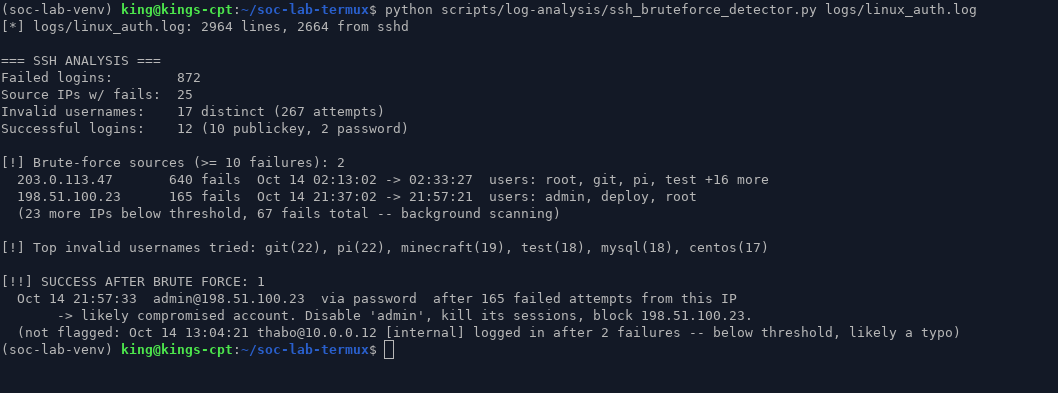
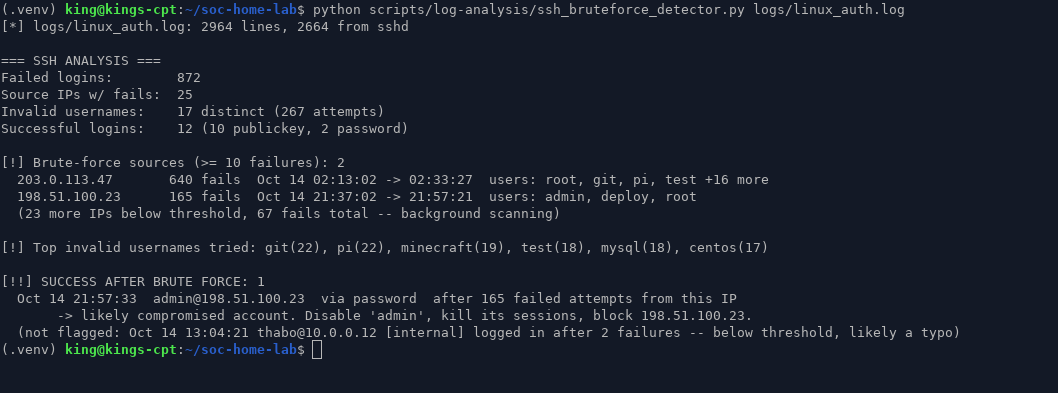
Convert from Termux to a Linux desktop lab; rename to soc-home-lab
- install.sh: apt packages + a project .venv with scapy; no Termux pkg path
- README: Linux desktop setup, running the detectors on your own
  /var/log/auth.log, journalctl output and tcpdump captures
- ssh detector also parses OpenSSH 9.8+ 'sshd-session[pid]' lines and ISO
  timestamps (current Ubuntu/Debian rsyslog format)
- pcap generator: fixed MACs so scapy stops printing ARP warnings
- removed Termux paths from the ATT&CK layer metadata and detection docs
- screenshots re-captured from ~/soc-home-lab with the repo .venv

Changed region(s): [[0.0, 0.0, 0.9045, 0.0611], [0.0, 0.855, 0.3743, 0.916]]

diff --git a/scripts/tools/generate_sample_pcap.py b/scripts/tools/generate_sample_pcap.py
@@ -19,6 +19,8 @@ from scapy.all import Ether, IP, TCP, UDP, DNS, DNSQR, DNSRR, wrpcap
 REPO_ROOT = Path(__file__).resolve().parents[2]
 T0 = 1792015200.0  # 2026-10-14 08:00 SAST
 GW = "10.0.0.1"
+# Fixed MACs so scapy doesn't try (and fail) to ARP-resolve addresses while building frames.
+ETH = Ether(src="02:00:00:00:00:01", dst="02:00:00:00:00:02")
 SITES = {"www.google.com": "192.0.2.10", "github.com": "192.0.2.20",
          "outlook.office365.com": "192.0.2.30", "www.news24.com": "192.0.2.40",
          "fnb.co.za": "192.0.2.50"}
@@ -37,17 +39,17 @@ def build(rng):
         t = T0 + rng.uniform(0, 1800)
         h, (name, ip) = rng.choice(hosts), rng.choice(list(SITES.items()))
         sport, qid = rng.randint(49152, 65535), rng.randint(0, 65535)
-        add(t, Ether() / IP(src=h, dst=GW) / UDP(sport=sport, dport=53) /
+        add(t, ETH / IP(src=h, dst=GW) / UDP(sport=sport, dport=53) /
             DNS(id=qid, rd=1, qd=DNSQR(qname=name)))
-        add(t + 0.02, Ether() / IP(src=GW, dst=h) / UDP(sport=53, dport=sport) /
+        add(t + 0.02, ETH / IP(src=GW, dst=h) / UDP(sport=53, dport=sport) /
             DNS(id=qid, qr=1, qd=DNSQR(qname=name), an=DNSRR(rrname=name, rdata=ip)))
         cport, t = rng.randint(49152, 65535), t + 0.05
-        add(t, Ether() / IP(src=h, dst=ip) / TCP(sport=cport, dport=443, flags="S"))
-        add(t + 0.03, Ether() / IP(src=ip, dst=h) / TCP(sport=443, dport=cport, flags="SA"))
-        add(t + 0.031, Ether() / IP(src=h, dst=ip) / TCP(sport=cport, dport=443, flags="A"))
+        add(t, ETH / IP(src=h, dst=ip) / TCP(sport=cport, dport=443, flags="S"))
+        add(t + 0.03, ETH / IP(src=ip, dst=h) / TCP(sport=443, dport=cport, flags="SA"))
+        add(t + 0.031, ETH / IP(src=h, dst=ip) / TCP(sport=cport, dport=443, flags="A"))
         for k in range(rng.randint(4, 14)):
             src, dst, sp, dp = (h, ip, cport, 443) if k % 3 == 0 else (ip, h, 443, cport)
-            add(t + 0.05 + k * 0.01, Ether() / IP(src=src, dst=dst) /
+            add(t + 0.05 + k * 0.01, ETH / IP(src=src, dst=dst) /
                 TCP(sport=sp, dport=dp, flags="PA") / bytes(rng.randint(60, 1400)))
 
     # SYN scan from an internal box against the file server
@@ -57,18 +59,18 @@ def build(rng):
     rng.shuffle(ports)
     for port in ports:
         sp = rng.randint(40000, 65000)
-        add(t, Ether() / IP(src=scanner, dst=target) / TCP(sport=sp, dport=port, flags="S"))
+        add(t, ETH / IP(src=scanner, dst=target) / TCP(sport=sp, dport=port, flags="S"))
         flags = "SA" if port in open_ports else "RA"
-        add(t + 0.0004, Ether() / IP(src=target, dst=scanner) / TCP(sport=port, dport=sp, flags=flags))
+        add(t + 0.0004, ETH / IP(src=target, dst=scanner) / TCP(sport=port, dport=sp, flags=flags))
         t += rng.uniform(0.001, 0.004)
 
     # C2 beacon: 10.0.0.34 -> 203.0.113.200:8443 every ~60s
     t = T0 + 37
     while t < T0 + 1800:
         sp = rng.randint(49152, 65535)
-        add(t, Ether() / IP(src="10.0.0.34", dst="203.0.113.200") / TCP(sport=sp, dport=8443, flags="S"))
-        add(t + 0.18, Ether() / IP(src="203.0.113.200", dst="10.0.0.34") / TCP(sport=8443, dport=sp, flags="SA"))
-        add(t + 0.2, Ether() / IP(src="10.0.0.34", dst="203.0.113.200") /
+        add(t, ETH / IP(src="10.0.0.34", dst="203.0.113.200") / TCP(sport=sp, dport=8443, flags="S"))
+        add(t + 0.18, ETH / IP(src="203.0.113.200", dst="10.0.0.34") / TCP(sport=8443, dport=sp, flags="SA"))
+        add(t + 0.2, ETH / IP(src="10.0.0.34", dst="203.0.113.200") /
             TCP(sport=sp, dport=8443, flags="PA") / bytes(rng.randint(180, 260)))
         t += 60 + rng.uniform(-2, 2)
 
@@ -78,7 +80,7 @@ def build(rng):
     for i in range(0, len(secret), 30):
         label = base64.b32encode(secret[i:i + 30]).decode().rstrip("=").lower()
         name = f"{label}.x.cdn-update.example"
-        add(t, Ether() / IP(src="10.0.0.57", dst=GW) / UDP(sport=rng.randint(49152, 65535), dport=53) /
+        add(t, ETH / IP(src="10.0.0.57", dst=GW) / UDP(sport=rng.randint(49152, 65535), dport=53) /
             DNS(id=rng.randint(0, 65535), rd=1, qd=DNSQR(qname=name, qtype="TXT")))
         t += rng.uniform(0.5, 2.0)
 

diff --git a/scripts/log-analysis/ssh_bruteforce_detector.py b/scripts/log-analysis/ssh_bruteforce_detector.py
@@ -19,11 +19,19 @@ import re
 import sys
 from collections import Counter, defaultdict
 
-# "Oct 14 21:37:02 web01 sshd[4242]: ..."
-SYSLOG = re.compile(r'^(?P<ts>\w{3}\s+\d{1,2} \d{2}:\d{2}:\d{2}) (?P<host>\S+) sshd\[\d+\]: (?P<msg>.*)$')
+# "Oct 14 21:37:02 web01 sshd[4242]: ..."  (also sshd-session[...] on OpenSSH 9.8+,
+# and ISO timestamps from rsyslog's high-precision format / journalctl -o short-iso)
+SYSLOG = re.compile(r'^(?P<ts>\w{3}\s+\d{1,2} \d{2}:\d{2}:\d{2}|\d{4}-\d{2}-\d{2}T\S+) (?P<host>\S+) '
+                    r'sshd(?:-session)?\[\d+\]: (?P<msg>.*)$')
 FAILED = re.compile(r'Failed (?:password|publickey) for (?P<invalid>invalid user )?(?P<user>\S+) '
                     r'from (?P<ip>\S+) port \d+')
 ACCEPTED = re.compile(r'Accepted (?P<method>\S+) for (?P<user>\S+) from (?P<ip>\S+) port \d+')
+
+
+def clock(ts):
+    """Time-of-day part of a syslog ('Oct 14 21:37:02') or ISO timestamp."""
+    m = re.search(r"\d{2}:\d{2}:\d{2}", ts)
+    return m.group(0) if m else ts
 
 
 def is_internal(ip):
@@ -84,7 +92,7 @@ def analyze(logfile, threshold):
         top = ", ".join(u for u, _ in users_by_ip[ip].most_common(4))
         more = len(users_by_ip[ip]) - 4
         top += f" +{more} more" if more > 0 else ""
-        print(f"  {ip:16s} {n:5d} fails  {first_seen[ip]} -> {last_seen[ip][7:]}  users: {top}")
+        print(f"  {ip:16s} {n:5d} fails  {first_seen[ip]} -> {clock(last_seen[ip])}  users: {top}")
 
     below = [(ip, n) for ip, n in fails.items() if n < threshold]
     if below:

diff --git a/detection/scripts/coverage_map.py b/detection/scripts/coverage_map.py
@@ -121,8 +121,8 @@ def generate_layer(rules_dir: Path) -> Dict:
             {"label": "High coverage (3+ rules)", "color": "#ef5350"},
         ],
         "metadata": [
-            {"name": "rules_directory", "value": str(rules_dir)},
-            {"name": "generator", "value": "soc-lab/detection/scripts/coverage_map.py"},
+            {"name": "rules_directory", "value": str(rules_dir.relative_to(ROOT.parent))},
+            {"name": "generator", "value": "detection/scripts/coverage_map.py"},
         ],
         "showTacticRowBackground": True,
         "tacticRowBackground": "#fafafa",

diff --git a/detection/scripts/test_rules.py b/detection/scripts/test_rules.py
@@ -2,7 +2,7 @@
 """
 Sigma Rule Test Harness
 Validates Sigma rules against Atomic Red Team test commands using pattern matching.
-Note: Full sigma compilation requires a working sigma CLI (pyyaml 6+ compatibility issue on Termux).
+Note: this harness does pattern matching only; it does not compile rules with sigma-cli.
 In production, use 'sigmac -t <backend> rule.yml' to compile for your SIEM.
 """
 import os

diff --git a/README.md b/README.md
@@ -1,13 +1,13 @@
-[![SOC Lab Termux](https://img.shields.io/badge/SOC%20Lab-Termux%20%7C%20Android-blue?logo=Android)](https://github.com)
+[![Linux desktop](https://img.shields.io/badge/platform-Linux%20desktop-blue?logo=linux)](#setup)
 [![Python 3.8+](https://img.shields.io/badge/python-3.8%2B-blue)](https://www.python.org/downloads/)
 [![License: MIT](https://img.shields.io/badge/License-MIT-yellow.svg)](LICENSE)
 
-# SOC Lab Termux
-Android-based defensive security lab for SOC analyst practice. No cloud, no VPN, no root required.
+# SOC Home Lab
+A defensive security lab for SOC analyst practice that runs in a normal Linux desktop terminal (Ubuntu, Debian, Kali, Mint). No cloud account, no paid tools.
 
 ## What This Is
 
-A working cybersecurity home lab built for Android/Termux. It generates realistic synthetic attack logs, inspects network packets, and produces triage-ready reports — the same core tasks a SOC Tier 1 analyst performs daily.
+A working home lab that generates realistic attack logs and network captures, then detects the attacks in them. It covers the core Tier 1 SOC tasks: read the logs, find the attacker, decide what's a real compromise and what's noise. The same detectors also work on your own machine's `/var/log/auth.log` and on pcaps you capture with `tcpdump`.
 
 **Built by:** Kgosi Ntshingila
 **Purpose:** Demonstrate hands-on SOC skills without a university degree or expensive training labs.
@@ -23,11 +23,12 @@ Most people trying to break into cybersecurity can talk about logs, but they've 
 - `scripts/network-tools/packet_inspector.py` — pcap triage with scapy: port scans, DNS tunneling, C2 beaconing
 - `scripts/tools/generate_sample_logs.py` — synthetic `auth.log` + Apache access log in the real formats
 - `scripts/tools/generate_sample_pcap.py` — synthetic pcap with a scan, a beacon and DNS tunneling
-- `install.sh` — setup for Termux (also runs on Debian/Ubuntu)
+- `install.sh` — one-command setup on Debian/Ubuntu: apt packages, a `.venv` with scapy, sample data
+- `detection/`, `detections/` — Sigma rules for Windows attacks, mapped to MITRE ATT&CK
 
 ## Output
 
-Real runs against the sample data (`--seed 1014`), screenshotted from a terminal.
+Real runs against the sample data (`--seed 1014`) in xfce4-terminal on Ubuntu.
 
 **SSH brute force.** Two brute-force sources. One of them (`198.51.100.23`) gets into `admin` after 165 failures, and that's the only alert. An employee who mistyped his password twice is deliberately *not* flagged.
 
@@ -58,18 +59,35 @@ Pass `--seed N` to get the same dataset every time. Leave it out to get a new on
 
 ## Setup
 
-```bash
-git clone https://github.com/kingswr1d/soc-lab-termux.git
-cd soc-lab-termux
-bash install.sh          # installs scapy, generates logs/ and logs/sample.pcap
+Needs a Debian-based Linux desktop and Python 3.8+.
 
-python3 scripts/log-analysis/ssh_bruteforce_detector.py logs/linux_auth.log
-python3 scripts/log-analysis/apache_analyzer.py logs/apache_access.log
-python3 scripts/network-tools/packet_inspector.py logs/sample.pcap
+```bash
+git clone https://github.com/kingswr1d/soc-home-lab.git
+cd soc-home-lab
+bash install.sh               # apt packages, .venv with scapy, logs/ + logs/sample.pcap
+source .venv/bin/activate
+
+python scripts/log-analysis/ssh_bruteforce_detector.py logs/linux_auth.log
+python scripts/log-analysis/apache_analyzer.py logs/apache_access.log
+python scripts/network-tools/packet_inspector.py logs/sample.pcap
 ```
 
-The two log analyzers only use the standard library (Python 3.8+). `packet_inspector.py` needs `scapy`.
-All three work on real logs too, e.g. `sudo python3 scripts/log-analysis/ssh_bruteforce_detector.py /var/log/auth.log`.
+The two log analyzers only use the standard library. `packet_inspector.py` needs `scapy`, which `install.sh` puts in `.venv`.
+
+### On your own machine
+
+```bash
+# your real SSH log (Ubuntu/Debian; on Fedora/RHEL it's /var/log/secure)
+sudo .venv/bin/python scripts/log-analysis/ssh_bruteforce_detector.py /var/log/auth.log
+
+# on systemd-only distros with no auth.log
+journalctl -u ssh --no-pager -o short > ssh.log
+python scripts/log-analysis/ssh_bruteforce_detector.py ssh.log
+
+# capture 5 minutes of your own traffic, then triage it
+sudo timeout 300 tcpdump -i any -w capture.pcap
+python scripts/network-tools/packet_inspector.py capture.pcap
+```
 
 Exit codes are usable in scripts: `0` = nothing found, `1` = suspicious activity, `2` = likely compromise (success after brute force, or web-shell commands).
 
@@ -102,7 +120,7 @@ Exit codes are usable in scripts: `0` = nothing found, `1` = suspicious activity
 - [x] Brute-force detector
 - [x] Synthetic data generator
 - [x] Network packet inspector
-- [x] Packaged for Termux on Android
+- [x] One-command setup for a Linux desktop
 - [ ] PortSwigger lab writeups added
 - [ ] TryHackMe SOC Level 1 completion certificate
 - [ ] CompTIA Security+ exam scheduled (5 November 2026)

diff --git a/detections/README.md b/detections/README.md
@@ -30,7 +30,7 @@ This repository demonstrates practical detection engineering skills by implement
 
 ## Quick Start
 
-### Local Validation (Termux / Linux / macOS)
+### Local Validation (Linux / macOS)
 
 ```bash
 # Install sigma-cli
